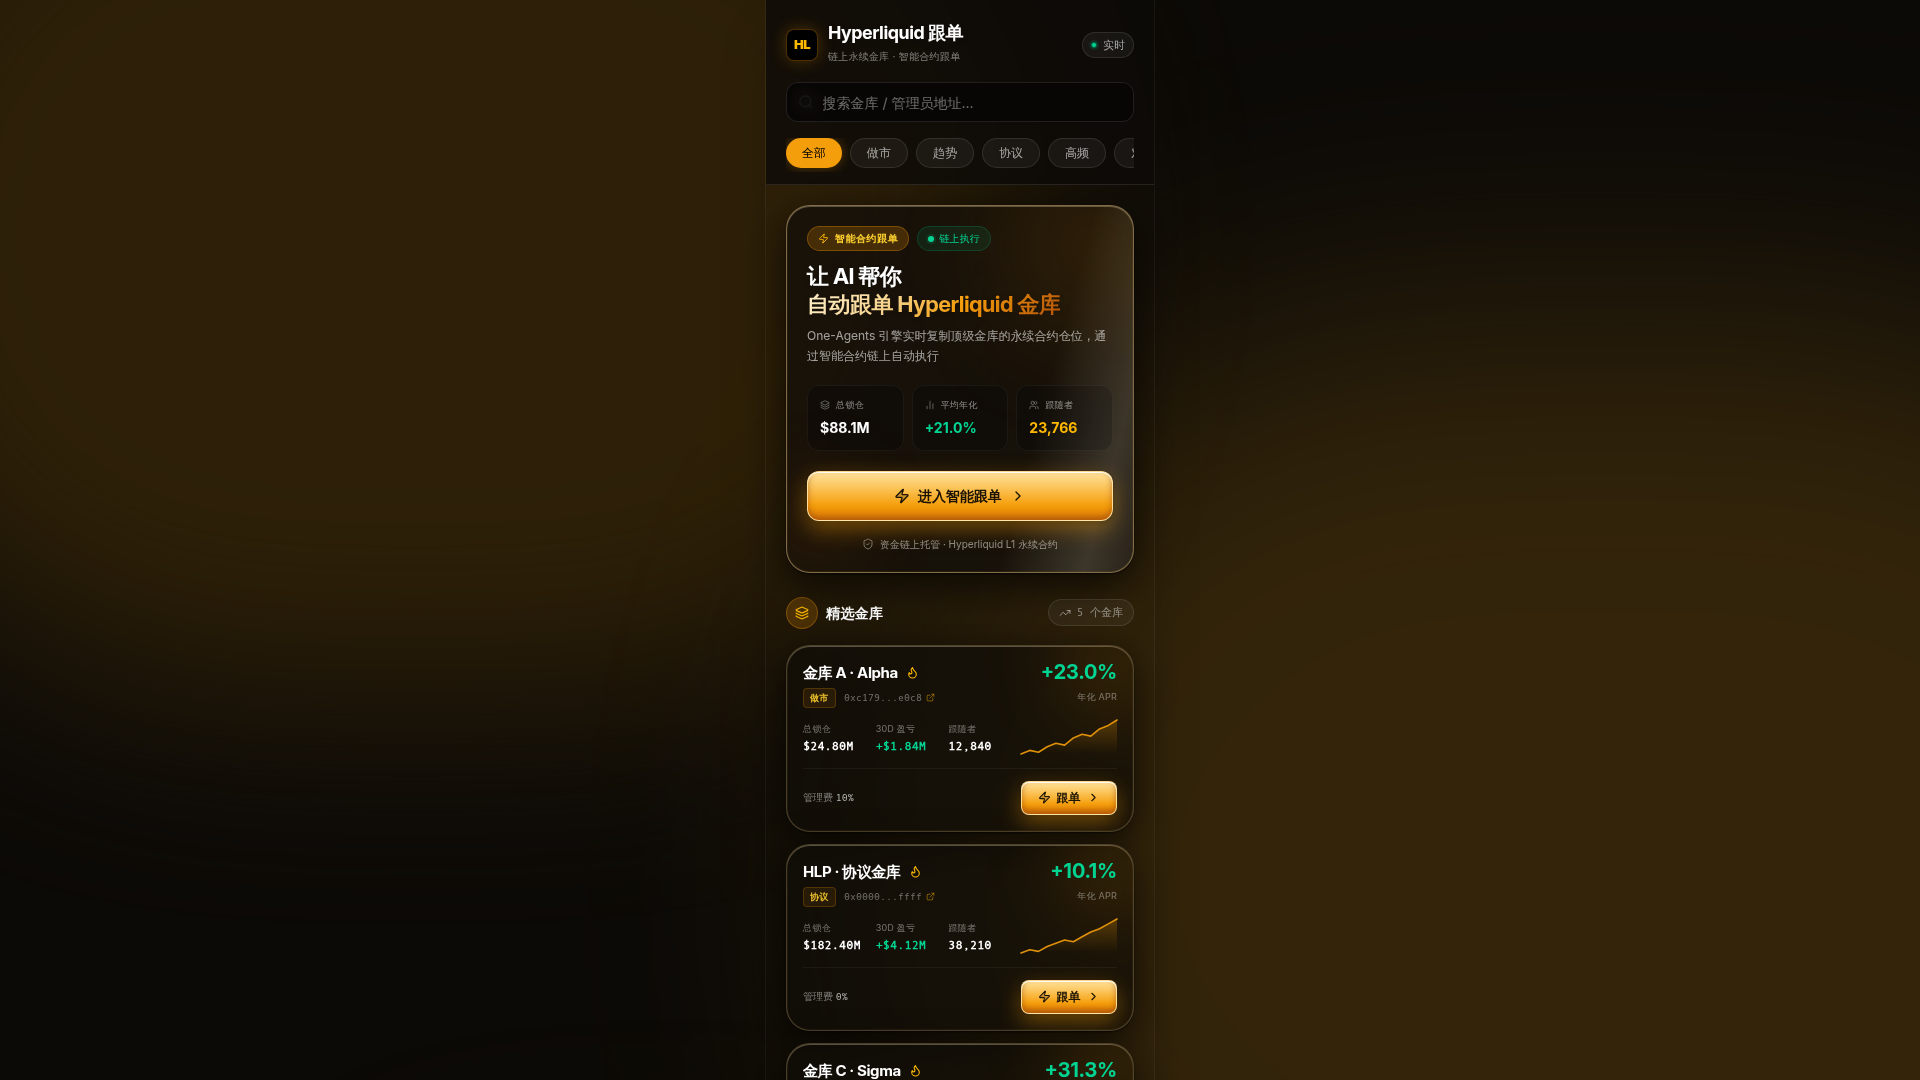
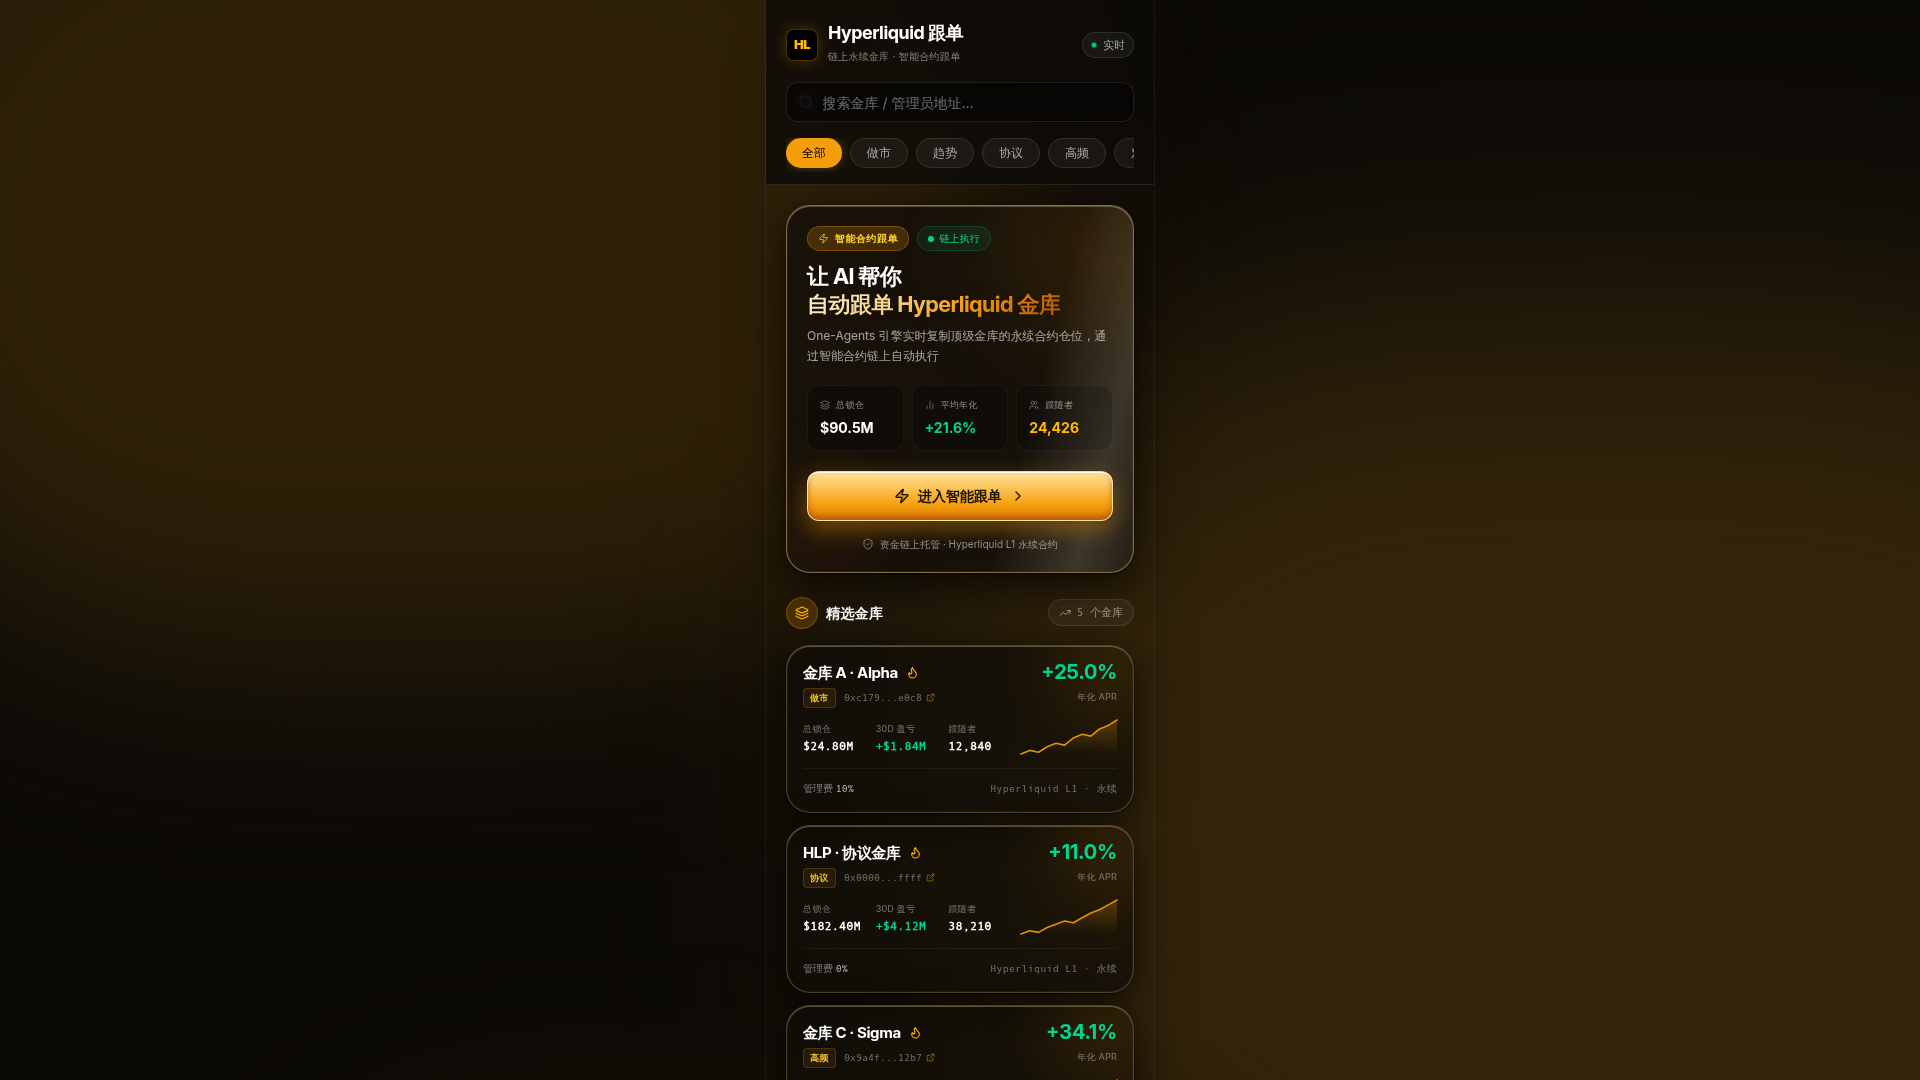
Remove copy button from featured vaults to show data only
Removes the "跟单" button from the featured vaults component in Hyperliquid.tsx, displaying only management fee and chain label information.

Replit-Commit-Author: Agent
Replit-Commit-Session-Id: dee77a8a-0ff9-466d-85a1-775e9c804df3
Replit-Commit-Checkpoint-Type: full_checkpoint
Replit-Commit-Event-Id: d2e166d6-513b-4659-9471-14d2559218ed
Replit-Commit-Screenshot-Url: https://storage.googleapis.com/screenshot-production-us-central1/fe3cc990-f6a6-4683-91c9-e290d61b5417/dee77a8a-0ff9-466d-85a1-775e9c804df3/JGB8RiD

Changed region(s): [[0.4062, 0.7028, 0.5938, 1.0]]

diff --git a/artifacts/mockup-sandbox/src/components/mockups/rune-glass/Hyperliquid.tsx b/artifacts/mockup-sandbox/src/components/mockups/rune-glass/Hyperliquid.tsx
@@ -404,21 +404,10 @@ export function Hyperliquid() {
                         </div>
                       </div>
 
-                      {/* Footer: commission + CTA */}
+                      {/* Footer: data only — management fee + chain label, no CTA */}
                       <div className="relative z-10 flex items-center justify-between gap-3 pt-3 border-t border-white/5">
                         <span className="text-[10px] text-white/45">管理费 <span className="text-white/70 font-mono">{v.commission}%</span></span>
-                        {v.hot ? (
-                          <button className="flex items-center gap-1.5 gold-button font-bold text-xs px-4 py-2 rounded-lg">
-                            <Zap size={13} className="fill-black/20" />
-                            跟单
-                            <ChevronRight size={13} />
-                          </button>
-                        ) : (
-                          <button className="flex items-center gap-1.5 bg-amber-500/10 border border-amber-500/30 text-amber-300 font-bold text-xs px-4 py-2 rounded-lg hover:bg-amber-500/20 transition-colors">
-                            跟单
-                            <ChevronRight size={13} />
-                          </button>
-                        )}
+                        <span className="text-[10px] text-white/40 font-mono tracking-wide">Hyperliquid L1 · 永续</span>
                       </div>
                     </motion.div>
                   );
